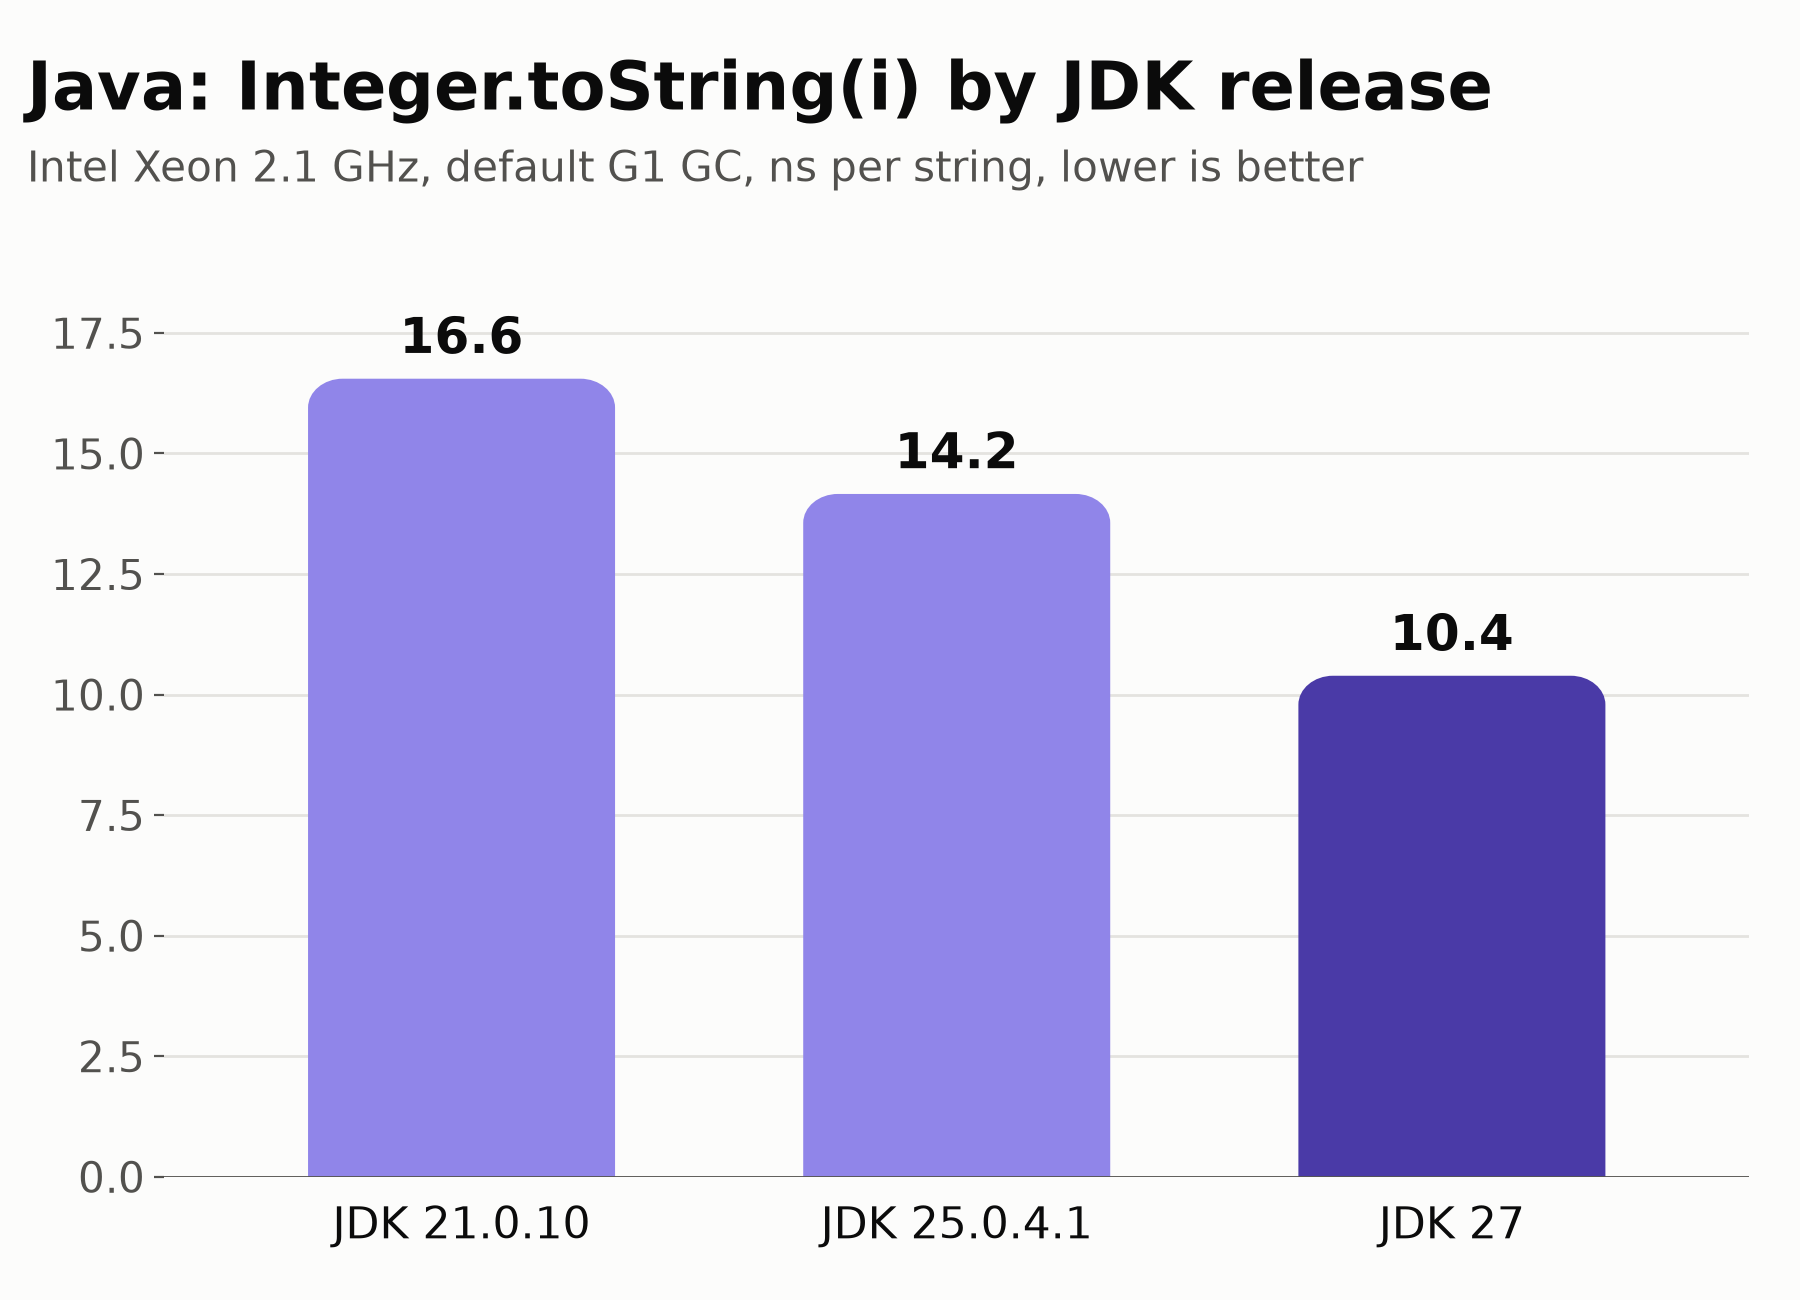
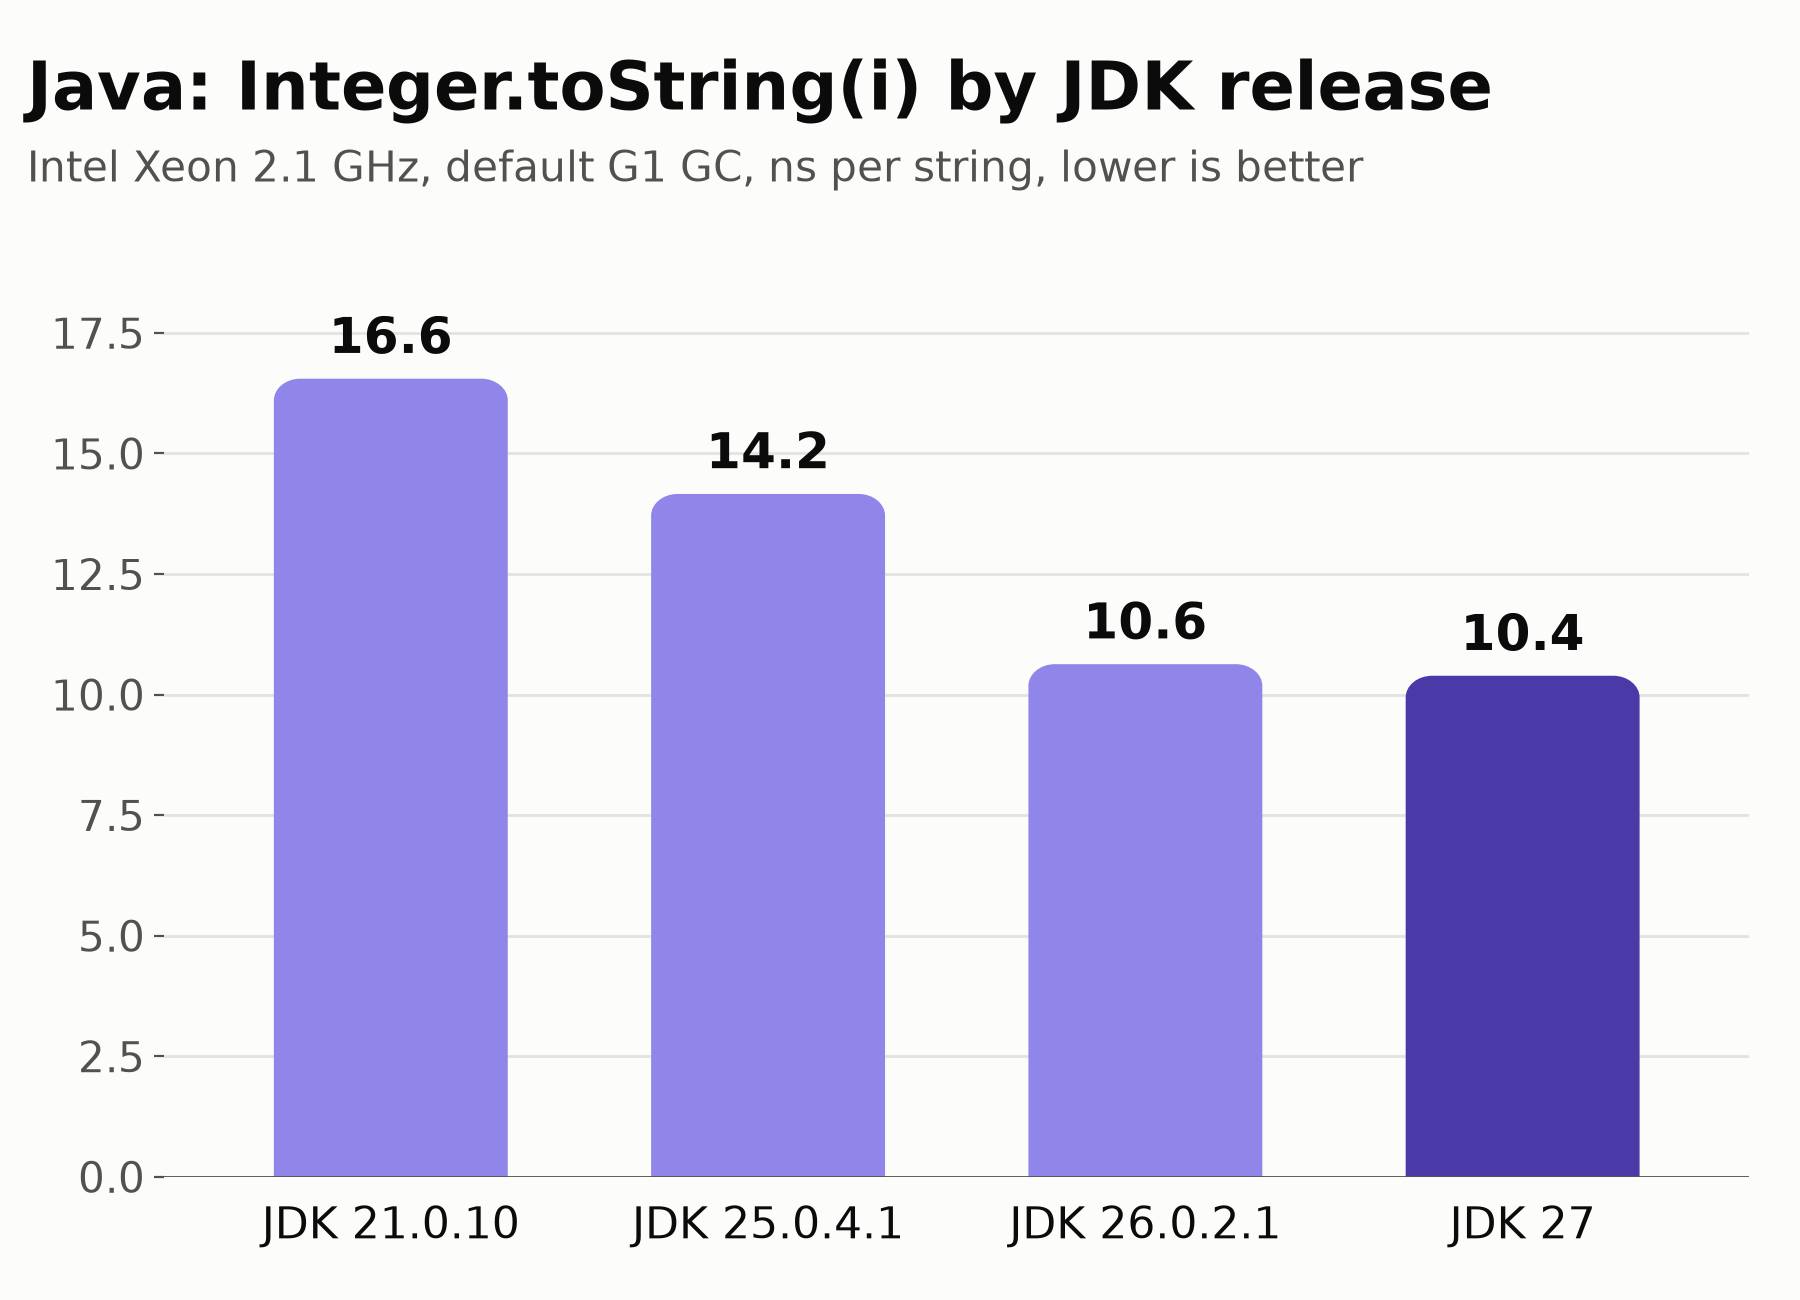
Attribute the Java G1 speedup to JEP 522 (JDK 26), check JDK 27 GC JEPs
Adds JDK 26 to the version comparison, a JDK x GC x compact-headers matrix,
and AllocSize.java showing 48 bytes/string with and without compact object
headers (JEP 534), so they cannot help this benchmark. Corrects the write-up,
which credited JDK 27 for the G1 gain.

Claude-Session: https://claude.ai/code/session_019szPonZa94EBZhrdP56uvo

Changed region(s): [[0.1244, 0.2462, 0.9333, 0.9538]]

diff --git a/2026/09/24/AllocSize.java b/2026/09/24/AllocSize.java
@@ -1,0 +1,13 @@
+public class AllocSize {
+  static final String[] buf = new String[1024];
+  public static void main(String[] a) {
+    var mx = (com.sun.management.ThreadMXBean) java.lang.management.ManagementFactory.getThreadMXBean();
+    long tid = Thread.currentThread().threadId();
+    for (int i = 0; i < 20_000_000; i++) buf[i & 1023] = Integer.toString(i); // warm up / JIT
+    final int N = 10_000_000, base = 10_000_000; // all 8-digit numbers
+    long b0 = mx.getThreadAllocatedBytes(tid);
+    for (int i = 0; i < N; i++) buf[i & 1023] = Integer.toString(base + i);
+    long b1 = mx.getThreadAllocatedBytes(tid);
+    System.out.printf("%.1f bytes allocated per 8-digit string%n", (double) (b1 - b0) / N);
+  }
+}

diff --git a/2026/09/24/plot_java.py b/2026/09/24/plot_java.py
@@ -1,4 +1,4 @@
-# Plots Integer.toString(i) across JDK releases (default G1 collector)
+# Plots Integer.toString(i) across JDK releases (21, 25, 26, 27) (default G1 collector)
 # from results_linux_xeon_java_versions.txt, in the style of plot.py.
 import re
 import matplotlib.pyplot as plt

diff --git a/2026/09/24/RESULTS_JAVA27.md b/2026/09/24/RESULTS_JAVA27.md
@@ -21,7 +21,7 @@ pinned to a core, the same as the M4 Max runs.
 
 OpenJDK 27+35 (GA, default G1 GC), CPython 3.14.7, Node.js 25.9.0, Bun 1.4.2,
 Ubuntu clang 18.1.3 with libstdc++, rustc 1.94.1 with itoa, Go 1.24.7, Nim 2.2.12.
-For comparison: OpenJDK 21.0.10 and Temurin 25.0.4.1.
+For comparison: OpenJDK 21.0.10, Temurin 25.0.4.1, OpenJDK 25.0.2 and OpenJDK 26.0.2.1.
 
 Reproduce with `./run_all.sh` (set `JAVA_HOME` to a JDK 27 install and `PYTHON` to a 3.14
 interpreter). Plot with `python plot.py results_linux_xeon.txt strings_linux_java27.png "<subtitle>"`
@@ -48,12 +48,12 @@ order holds.
 
 ### Java across JDK releases (`Integer.toString`, ns per string)
 
-| GC       | JDK 21 | JDK 25 | JDK 27 |
-|----------|-------:|-------:|-------:|
-| G1 (default) | 16.6 | 14.2 | **10.4** |
-| Parallel | 11.6 | 9.8  | 11.0 |
-| Serial   | 11.0 | 8.6  | 12.1 |
-| ZGC      | 12.2 | 11.1 | 12.1 |
+| GC       | JDK 21 | JDK 25 | JDK 26 | JDK 27 |
+|----------|-------:|-------:|-------:|-------:|
+| G1 (default) | 16.6 | 14.2 | 10.6 | **10.4** |
+| Parallel | 11.6 | 9.8  | 10.6 | 11.0 |
+| Serial   | 11.0 | 8.6  | 12.3 | 12.1 |
+| ZGC      | 12.2 | 11.1 | 13.2 | 12.1 |
 
 ![Java Integer.toString by JDK release](java_versions.png)
 
@@ -65,11 +65,33 @@ order holds.
   young-generation collector frees these short-lived objects almost for free. That makes an
   allocation nearly as cheap as C++'s small-string-optimized `std::string`, which never
   allocates at all.
-* **This is a JDK 27 improvement.** With the default G1 collector, the time drops from 16.6 ns
-  (JDK 21) to 14.2 ns (JDK 25) to 10.4 ns (JDK 27). Most of the older releases' gap with G1 came
-  from G1's write barrier on every reference store into the array. JDK 27 closes that gap, so G1
-  now runs as fast as the throughput collectors (Parallel, Serial). The recent G1
-  barrier-simplification work in OpenJDK is the likely cause.
+* **The G1 speedup arrived in JDK 26, not 27.** With the default G1 collector, the time drops
+  from 16.6 ns (JDK 21) to 14.2 ns (JDK 25) to 10.4 ns (JDK 26), and JDK 27 stays at 10.4-10.6 ns
+  (`results_linux_xeon_g1_matrix.txt`). This matches
+  [JEP 522](https://openjdk.org/jeps/522) (JDK 26), which cuts G1's post-write barrier on x64
+  from about 50 instructions to about 12. This loop runs that barrier on every reference store
+  into `buf`.
+
+## What JDK 27 changes in G1, and whether it matters here
+
+JDK 27 has two GC-related JEPs, and neither changes this result:
+
+* [JEP 534](https://openjdk.org/jeps/534), compact object headers by default (12-byte headers
+  become 8-byte). This has no effect here. `AllocSize.java` measures 48 bytes per 8-digit string
+  with `-XX:+UseCompactObjectHeaders` and with `-XX:-UseCompactObjectHeaders`. Both objects round
+  up to 24 bytes either way. The `String` is 12 + 10 bytes of fields = 22 before or 8 + 10 = 18
+  after. The `byte[8]` is 16 + 8 = 24 before or 12 + 8 = 20 after. Turning the flag on or off in
+  JDK 25, 26 or 27 changes the G1 time by 0.1-0.2 ns, which is noise.
+* [JEP 523](https://openjdk.org/jeps/523), G1 is the default everywhere. Before JDK 27, the JVM
+  picked Serial on machines with 1 CPU or less than 1792 MB of RAM. This machine has 4 CPUs, so
+  G1 was already the default. It matters when pinned to one core (`taskset -c 0`): JDK 25 picks
+  Serial and runs at 8.9 ns, while JDK 27 picks G1 and runs at 11.0 ns.
+
+Serial (and Parallel) got *slower* from JDK 25 to 26: Serial went from 8.1-8.3 ns to 11.4 ns.
+This is not a vendor-build artifact, because Oracle's JDK 25.0.2 build matches the Temurin one.
+The cause has not been investigated.
+## Other observations
+
 * The ranking of the other languages is similar to the M4 Max, except that C++ has a much
   smaller lead. That is probably libstdc++'s `to_string` versus Apple's libc++. Bun's
   `String(i)` also does comparatively worse on this Linux/x64 box.
